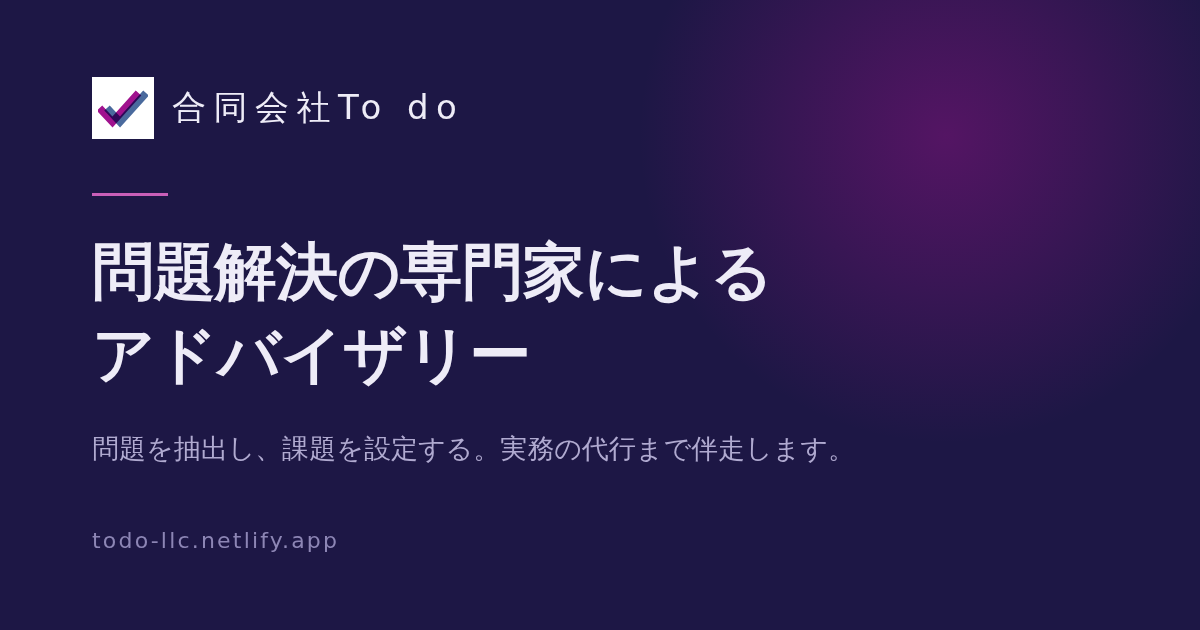
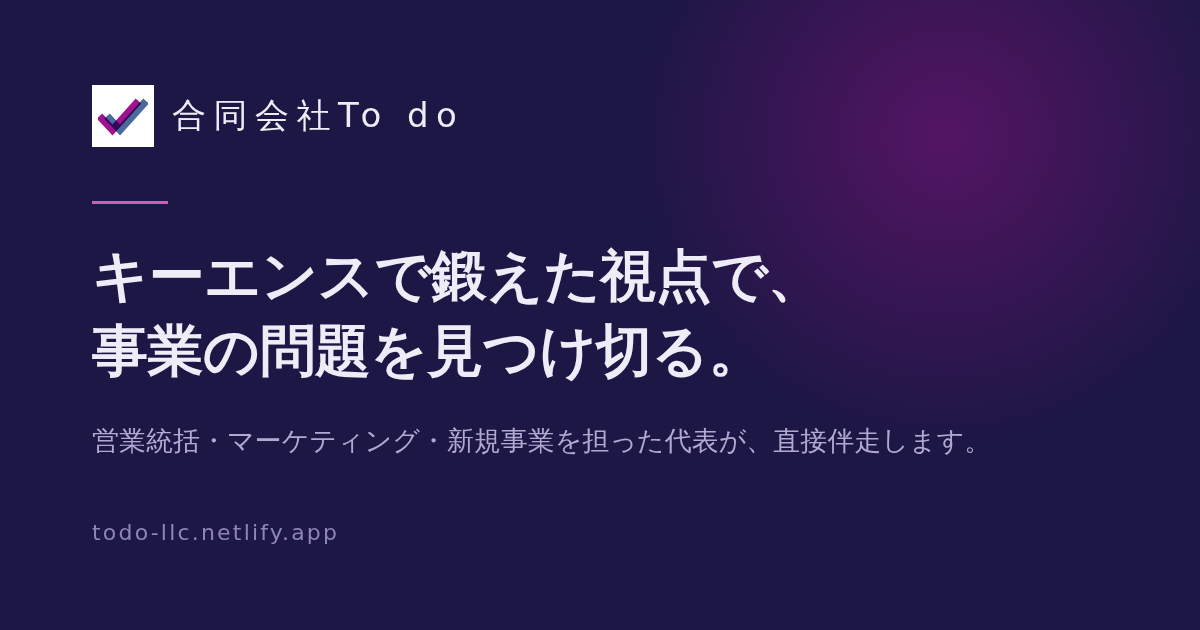
Lead with the representative's Keyence background
The strongest thing this company has is who the representative is:
営業統括マネジャー、マーケティングマネジャー、海外事業強化部マネジャー
at Keyence, then new-business and product-management leadership at
Panasonic, Koki Holdings and Carl Zeiss. That was buried on the 代表
page while the home page opened with a generic 問題解決の専門家.

The hero, meta description, title tag and OG image now say it up front,
and a credentials strip under the hero lists the four companies so a
visitor sees them before scrolling. Claims stay to roles actually held
— no invented results, and nothing implying those companies endorse
this one.

Claude-Session: https://claude.ai/code/session_017jRqNvrhJ5za8qKJ24hPpa

diff --git a/src/styles/global.css b/src/styles/global.css
@@ -449,3 +449,40 @@ p:last-child { margin-bottom: 0; }
   transition: background-color 0.2s ease, border-color 0.2s ease, color 0.2s ease;
 }
 .social a:hover { background: var(--accent); border-color: var(--accent); color: #fff; }
+
+/* 経歴の帯（トップページ） -------------------------------------------- */
+.creds {
+  background: var(--surface-2);
+  border-bottom: 1px solid var(--line);
+  padding: clamp(34px, 5vw, 52px) 0;
+}
+.creds__label {
+  font-size: 0.72rem;
+  font-weight: 700;
+  letter-spacing: 0.2em;
+  color: var(--accent);
+  margin-bottom: 1.4em;
+}
+.creds__list {
+  display: flex;
+  flex-wrap: wrap;
+  gap: 12px 0;
+  list-style: none;
+  margin: 0 0 1.4em;
+  padding: 0;
+}
+.creds__list li {
+  font-size: clamp(0.95rem, 1.6vw, 1.12rem);
+  font-weight: 700;
+  color: var(--brand-deep);
+  padding-right: 26px;
+  margin-right: 26px;
+  border-right: 1px solid var(--line);
+  line-height: 1.5;
+}
+.creds__list li:last-child { border-right: 0; padding-right: 0; margin-right: 0; }
+.creds__note { font-size: 0.92rem; color: var(--ink-muted); margin: 0; max-width: 44em; }
+@media (max-width: 700px) {
+  .creds__list { flex-direction: column; gap: 8px; }
+  .creds__list li { border-right: 0; padding-right: 0; margin-right: 0; }
+}
